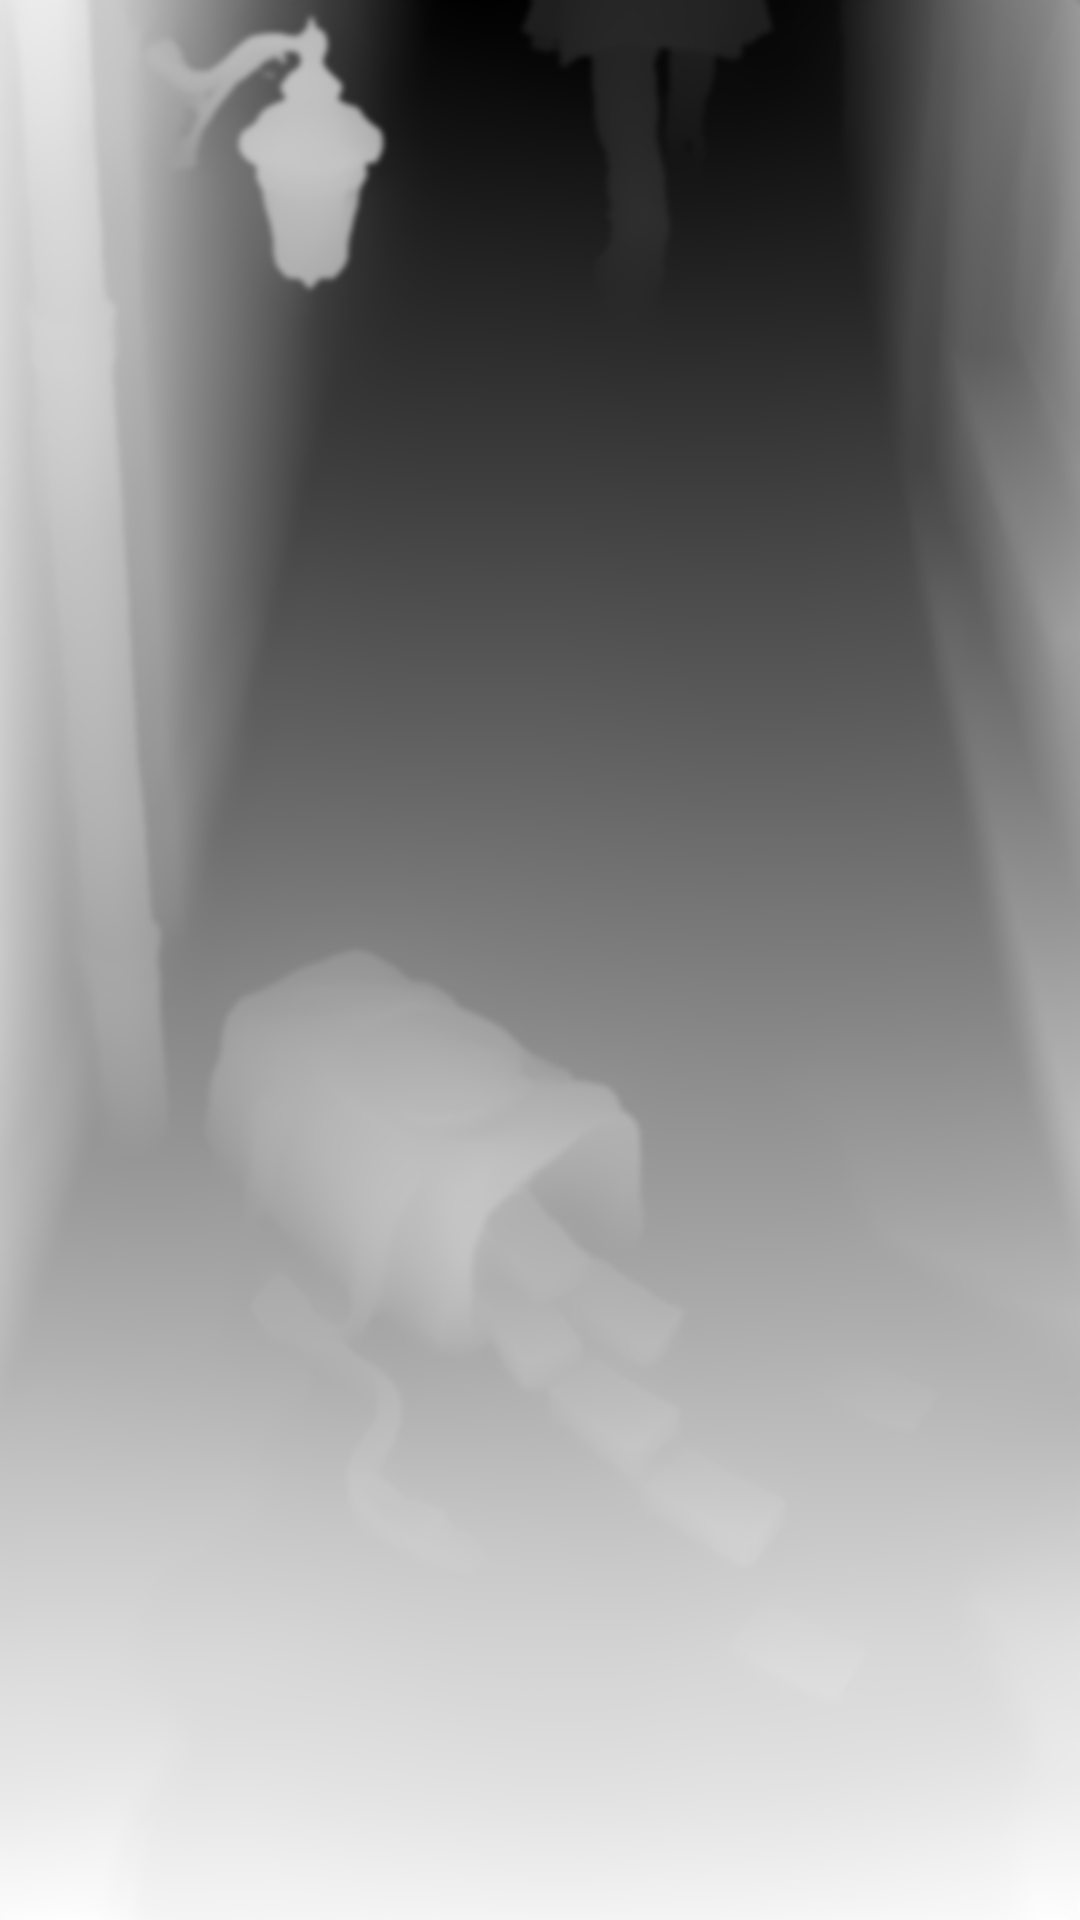
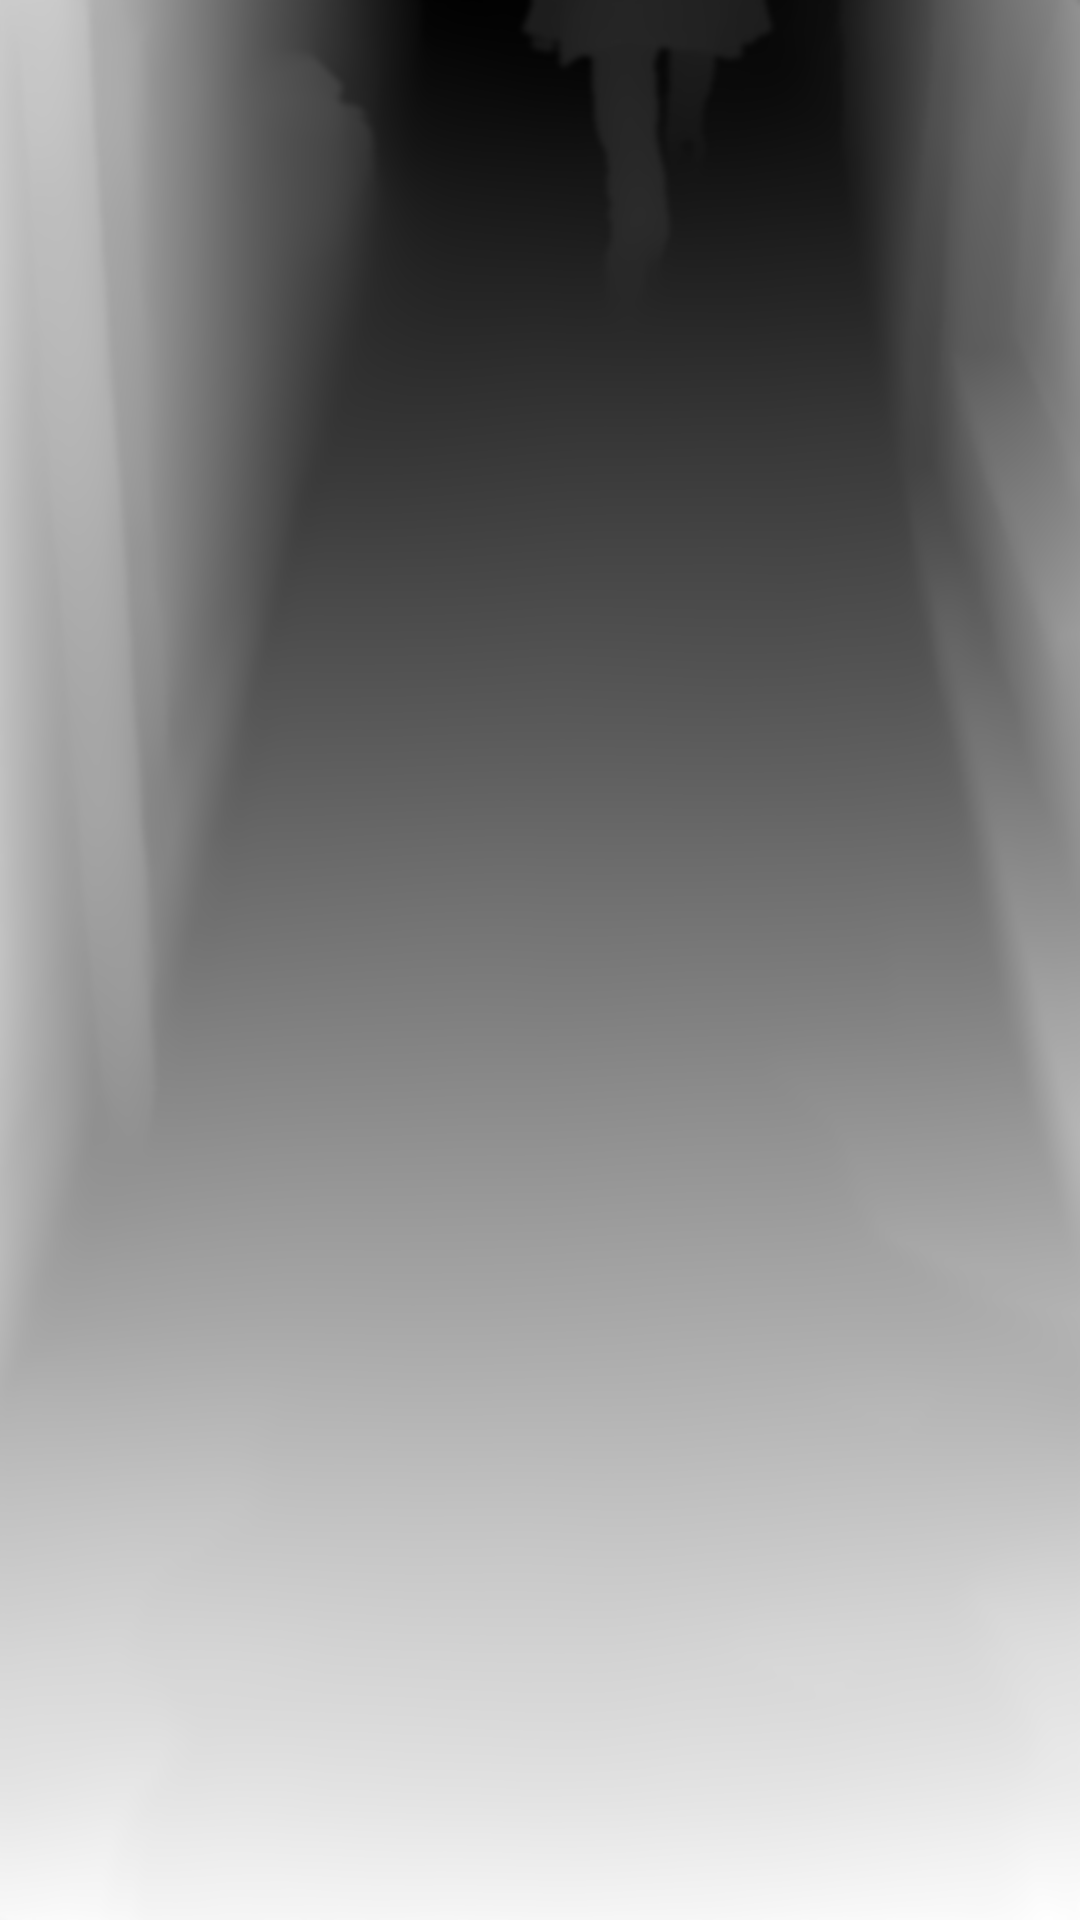
hikaye-video: puppet layers from images (rembg cutout + LaMa background + depth)
hazirla.py replaces derinlik.py: cuts the subject into its own layer,
inpaints the background behind it and makes a depth map. Shots can set
'oynat' (nefes, surus, git, ilerle, yuru, titre, salin, yukari, yok) to
animate the subject over the 2.5D background.

Claude-Session: https://claude.ai/code/session_014JxJGGMAcsX945kBrKhihb

Changed region(s): [[0.1833, 0.5, 0.6111, 0.6875], [0.0, 0.0, 0.3667, 0.2188]]

diff --git a/hikaye-video/engine.js b/hikaye-video/engine.js
@@ -434,10 +434,10 @@ function titleCards(sc, t) {
 // ---------- görsel çekimler (yapay zekâ / kendi görsellerin) ----------
 // sahne.gorsel ilk çekim; herhangi bir olayda "gorsel" verilirse o anda yeni çekime kesilir.
 function shotAt(sc, t) {
-  let shot = sc.gorsel ? { src: sc.gorsel, start: sc.start, hareket: sc.hareket } : null, end = sc.end;
+  let shot = sc.gorsel ? { src: sc.gorsel, start: sc.start, hareket: sc.hareket, oynat: sc.oynat } : null, end = sc.end;
   for (const ev of sc.olaylar) {
     if (!ev.gorsel) continue;
-    if (ev.start <= t) shot = { src: ev.gorsel, start: ev.start, hareket: ev.hareket };
+    if (ev.start <= t) shot = { src: ev.gorsel, start: ev.start, hareket: ev.hareket, oynat: ev.oynat };
     else { end = ev.start; break; }
   }
   if (shot) shot.end = end;
@@ -448,12 +448,20 @@ const MOVES = ['yaklas', 'saga', 'uzaklas', 'sola', 'yukari'];
 const DEPTH = {}, warpOut = { img: null };
 function prepDepth(src) {
   const img = IMAGES[src], dimg = DEPTH_IMG[src]; if (!img || !dimg) return null;
+  const fg = FG_IMG[src], base = fg && BG_IMG[src] ? BG_IMG[src] : img;
   const k = Math.max(W / img.width, H / img.height) * 1.14, w = img.width * k, h = img.height * k, x = (W - w) / 2, y = (H - h) / 2;
   const c = mk(W, H), g = c.getContext('2d', { willReadFrequently: true });
-  g.drawImage(img, x, y, w, h); const col = new Uint32Array(g.getImageData(0, 0, W, H).data.buffer.slice(0));
+  g.drawImage(base, x, y, w, h); const col = new Uint32Array(g.getImageData(0, 0, W, H).data.buffer.slice(0));
   g.clearRect(0, 0, W, H); g.drawImage(dimg, x, y, w, h); const dd = g.getImageData(0, 0, W, H).data;
   const dep = new Float32Array(W * H); for (let i = 0; i < dep.length; i++) dep[i] = dd[i * 4] / 255;
-  return (DEPTH[src] = { col, dep });
+  let box = null;
+  if (fg && BG_IMG[src]) { // öznenin kutusu: oynatma ekseni alt-orta noktası
+    g.clearRect(0, 0, W, H); g.drawImage(fg, x, y, w, h); const fa = g.getImageData(0, 0, W, H).data;
+    let x0 = W, x1 = 0, y0 = H, y1 = 0, n = 0, my = 0;
+    for (let yy = 0; yy < H; yy += 2) for (let xx = 0; xx < W; xx += 2) if (fa[(yy * W + xx) * 4 + 3] > 128) { x0 = Math.min(x0, xx); x1 = Math.max(x1, xx); y0 = Math.min(y0, yy); y1 = Math.max(y1, yy); n++; my += yy; }
+    if (n) box = { x0, x1, y0, y1, cx: (x0 + x1) / 2 };
+  }
+  return (DEPTH[src] = { col, dep, fg: box && fg, box, place: [x, y, w, h] });
 }
 function drawShotDepth(shot, t, D2) {
   const p = clamp((t - shot.start) / Math.max(.5, shot.end - shot.start)), e = p * .8 + smooth(p) * .2;
@@ -476,6 +484,28 @@ function drawShotDepth(shot, t, D2) {
     }
   }
   ctx.putImageData(warpOut.img, 0, 0);
+  if (D2.fg) drawPuppet(shot, t, D2, zg * punch * (1 + kz * .85), vx * .85, vy * .85, cx, cy);
+}
+// Kesilmiş özneyi ayrı katman olarak oynat. Eksen: öznenin alt-orta noktası.
+function drawPuppet(shot, t, D2, z, vx, vy, cx, cy) {
+  const { box, fg, place } = D2, lt = t - shot.start, dur = Math.max(.5, shot.end - shot.start), p = clamp(lt / dur);
+  const mode = shot.oynat || 'nefes', ax = box.cx, ay = box.y1, hgt = box.y1 - box.y0;
+  let sx = 1, sy = 1, rot = 0, dx = 0, dy = 0, grow = 1;
+  const ph = hash(shot.src) % 100;
+  if (mode === 'nefes') { sy = 1 + Math.sin(lt * 2.4 + ph) * .012; sx = 1 - Math.sin(lt * 2.4 + ph) * .004; rot = Math.sin(lt * .9 + ph) * .008; }
+  else if (mode === 'surus') { grow = lerp(1, 1.22, smooth(p)); dy = Math.sin(lt * 31) * 2.2 + Math.abs(Math.sin(lt * 5.3)) * -5; dx = Math.sin(lt * 23) * 1.6; rot = Math.sin(lt * 3.1) * .015; }
+  else if (mode === 'git') { grow = lerp(1, .8, smooth(p)); dy = Math.sin(lt * 31) * 1.8; dx = Math.sin(lt * 23) * 1.2; rot = Math.sin(lt * 3.1) * .012; }
+  else if (mode === 'ilerle') { grow = lerp(1, 1.15, smooth(p)); dy = Math.abs(Math.sin(lt * 5)) * -6; rot = Math.sin(lt * 5) * .01; }
+  else if (mode === 'yuru') { dy = -Math.abs(Math.sin(lt * 5.2)) * hgt * .025; rot = Math.sin(lt * 5.2) * .025; dx = lerp(-W * .04, W * .04, p); }
+  else if (mode === 'titre') { dx = Math.sin(lt * 41) * 2.5; dy = Math.cos(lt * 37) * 1.5; sy = 1 + Math.sin(lt * 2.4) * .01; }
+  else if (mode === 'salin') { rot = Math.sin(lt * 1.6 + ph) * .03; sy = 1 + Math.sin(lt * 2.4) * .01; }
+  else if (mode === 'yukari') { dy = lerp(hgt * .04, -hgt * .04, smooth(p)); sy = 1 + Math.sin(lt * 2.4) * .01; }
+  else if (mode === 'yok') { }
+  ctx.save();
+  ctx.translate(cx - vx, cy - vy); ctx.scale(z, z); ctx.translate(-cx, -cy);   // arka planla aynı kamera
+  ctx.translate(ax + dx, ay + dy); ctx.rotate(rot); ctx.scale(sx * grow, sy * grow); ctx.translate(-ax, -ay);
+  ctx.drawImage(fg, place[0], place[1], place[2], place[3]);
+  ctx.restore();
 }
 function drawShot(shot, t) {
   const img = IMAGES[shot.src]; if (!img) return;
@@ -506,7 +536,9 @@ function chunks(ev) {
     cur.push(wt); const txt = cur.map(x => x[0]).join(' ').replace(/\*/g, '');
     if (cur.length >= 3 || txt.length >= 16 || /[.,!?;:…]$/.test(wt[0])) { out.push(cur); cur = []; }
   }
-  if (cur.length) { const prev = out[out.length - 1]; if (cur.length === 1 && prev && prev.length < 4) prev.push(...cur); else out.push(cur); } // tek kalan kelimeyi öncekine ekle
+  if (cur.length) out.push(cur);
+  const last = out[out.length - 1], prev = out[out.length - 2];
+  if (out.length > 1 && last.length === 1 && prev.length < 4) prev.push(...out.pop()); // tek kalan son kelimeyi öncekine ekle
   return (ev._chunks = out);
 }
 function boldSubtitles(sc, t) {
@@ -580,10 +612,11 @@ function seek(t) {
 }
 
 // ---------- başlatma ----------
-const IMAGES = {}, DEPTH_IMG = {};
+const IMAGES = {}, DEPTH_IMG = {}, FG_IMG = {}, BG_IMG = {};
 const imgs = [...new Set(D.sahneler.flatMap(s => [s.mekan && s.mekan.resim, s.gorsel, ...s.olaylar.map(e => e.gorsel)]).filter(Boolean))];
 const TR = 'Aa ıİşŞğĞüÜöÖçÇ';
 Promise.all([document.fonts.load(`700 40px Nunito`, TR), document.fonts.load(`900 40px Nunito`, TR), document.fonts.load(`italic 700 40px Nunito`, TR).catch(() => 0), document.fonts.load(`400 40px Anton`, TR).catch(() => 0),
+  ...imgs.flatMap(src => [['.fg.png', FG_IMG], ['.bg.jpg', BG_IMG]].map(([ext, store]) => new Promise(ok => { const im = new Image(); im.onload = () => { store[src] = im; ok(); }; im.onerror = () => ok(); im.src = src.replace(/\.[a-z]+$/i, ext); }))),
   ...imgs.map(src => new Promise(ok => { const di = new Image(); di.onload = () => { DEPTH_IMG[src] = di; ok(); }; di.onerror = () => ok(); di.src = src.replace(/\.[a-z]+$/i, '.depth.png'); })),
   ...imgs.map(src => new Promise(ok => { const im = new Image(); im.onload = () => { IMAGES[src] = im; ok(); }; im.onerror = () => { console.warn('Görsel yok, yer tutucu kullanılıyor: ' + src); IMAGES[src] = placeholder(src); ok(); }; im.src = src; }))])
   .then(() => { D.sahneler.forEach(s => { if (!s.gorsel) getSet(s); }); seek(0); window.READY = true; if (!/render/.test(location.hash)) player(); });

diff --git a/hikaye-video/hazirla.py b/hikaye-video/hazirla.py
@@ -1,0 +1,85 @@
+#!/usr/bin/env python3
+"""Görselleri animasyona hazırlar (hepsi açık kaynak, CPU'da çalışır, ücretsiz):
+
+  1. Karakter/özne kesimi  - rembg + IS-Net (MIT)            -> 01.fg.png  (saydam katman)
+  2. Arka plan onarımı     - LaMa (Apache-2.0)                -> 01.bg.jpg  (özne silinmiş arka plan)
+  3. Derinlik haritası     - Depth Anything V2 Small (Apache) -> 01.depth.png
+
+Motor bu dosyaları görünce arka planı derinliğe göre 2.5D kaydırır, karakteri ayrı katman olarak
+oynatır (nefes, yürüme, sürüş, titreme...). Sahnede "oynat": "yok" ya da hazirla atlanırsa düz görsel kullanılır.
+Bir görselde özne kesilmesin istiyorsan olayda/sahnede "katman": false yaz.
+
+Kullanım: python3 hazirla.py [hikaye.json]
+"""
+import json, os, sys
+
+CA = '/root/.ccr/ca-bundle.crt'
+if os.path.exists(CA):
+    for k in ('SSL_CERT_FILE', 'REQUESTS_CA_BUNDLE'):
+        os.environ.setdefault(k, CA)
+
+import numpy as np
+from PIL import Image, ImageFilter
+
+story = json.load(open(sys.argv[1] if len(sys.argv) > 1 else 'hikaye.json', encoding='utf-8'))
+shots = {}
+for sc in story['sahneler']:
+    for o in [sc] + sc.get('olaylar', []):
+        if o.get('gorsel'):
+            shots.setdefault(o['gorsel'], o.get('katman', sc.get('katman', True)))
+
+_m = {}
+def model(name):
+    if name in _m:
+        return _m[name]
+    if name == 'kes':
+        from rembg import new_session
+        _m[name] = new_session('isnet-general-use')
+    elif name == 'onar':
+        import torch
+        from simple_lama_inpainting.utils import download_model
+        from simple_lama_inpainting.models.model import LAMA_MODEL_URL
+        _m[name] = torch.jit.load(download_model(LAMA_MODEL_URL), map_location='cpu').eval()  # CPU'ya zorla
+    elif name == 'derinlik':
+        from transformers import pipeline
+        _m[name] = pipeline('depth-estimation', model='depth-anything/Depth-Anything-V2-Small-hf', device='cpu')
+    return _m[name]
+
+
+def inpaint(im, mask):
+    import torch
+    from simple_lama_inpainting.utils import prepare_img_and_mask
+    W, H = im.size
+    s = 960 / max(W, H)  # hız için küçült, sonra büyüt
+    w, h = int(W * s) // 8 * 8, int(H * s) // 8 * 8
+    x, m = prepare_img_and_mask(im.resize((w, h)), mask.resize((w, h)), torch.device('cpu'))
+    with torch.inference_mode():
+        r = model('onar')(x, m)[0].permute(1, 2, 0).numpy()
+    small = Image.fromarray(np.clip(r * 255, 0, 255).astype('uint8'))
+    # onarılmış küçük görseli yalnızca maske bölgesine koy, geri kalan orijinal çözünürlükte kalsın
+    return Image.composite(small.resize((W, H), Image.LANCZOS), im, mask.filter(ImageFilter.GaussianBlur(6)))
+
+
+for p, layer in shots.items():
+    if not os.path.exists(p):
+        print('eksik görsel:', p); continue
+    base = os.path.splitext(p)[0]
+    im = Image.open(p).convert('RGB')
+    if layer and not os.path.exists(base + '.fg.png'):
+        from rembg import remove
+        cut = remove(im, session=model('kes'))
+        a = np.array(cut)[:, :, 3]
+        cover = (a > 128).mean()
+        if 0.01 < cover < 0.6:
+            cut.save(base + '.fg.png')
+            mask = Image.fromarray(((a > 16) * 255).astype('uint8')).filter(ImageFilter.MaxFilter(31))
+            inpaint(im, mask).save(base + '.bg.jpg', quality=92)
+            print(f'katman: {p}  (özne %{cover * 100:.0f})')
+        else:
+            print(f'katman yok: {p}  (özne %{cover * 100:.0f}, uygun değil)')
+    if not os.path.exists(base + '.depth.png'):
+        src = Image.open(base + '.bg.jpg') if os.path.exists(base + '.bg.jpg') else im
+        d = model('derinlik')(src)['depth'].resize(im.size).filter(ImageFilter.GaussianBlur(3))
+        d.save(base + '.depth.png')
+        print('derinlik:', p)
+print('hazır')
